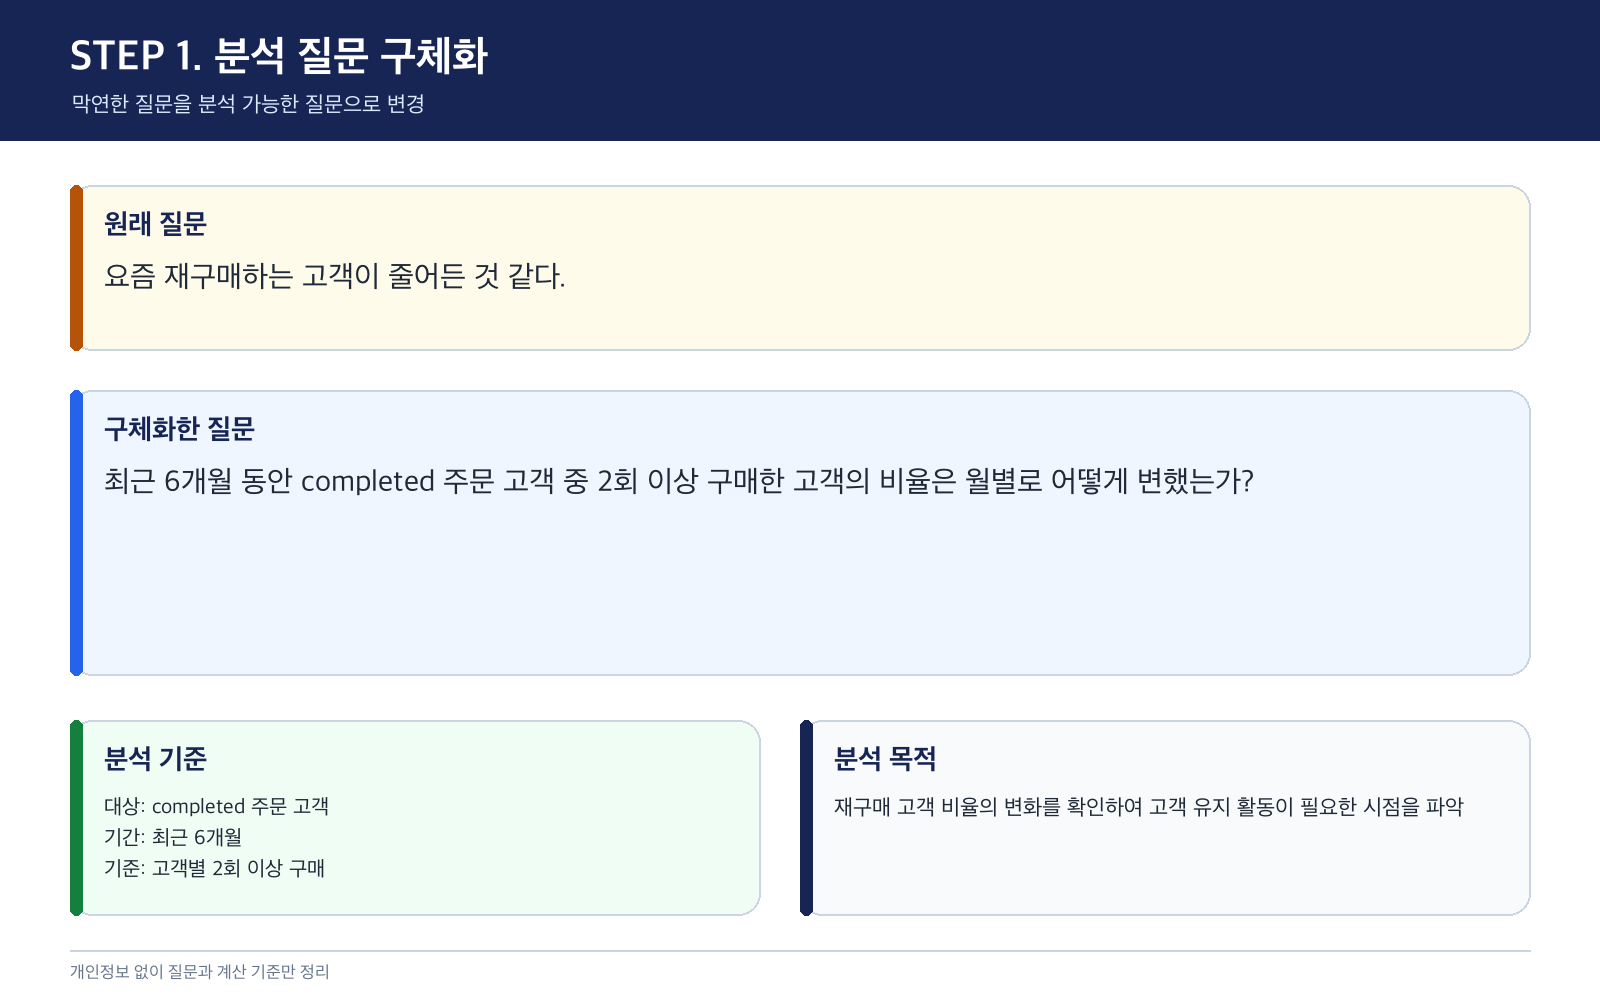
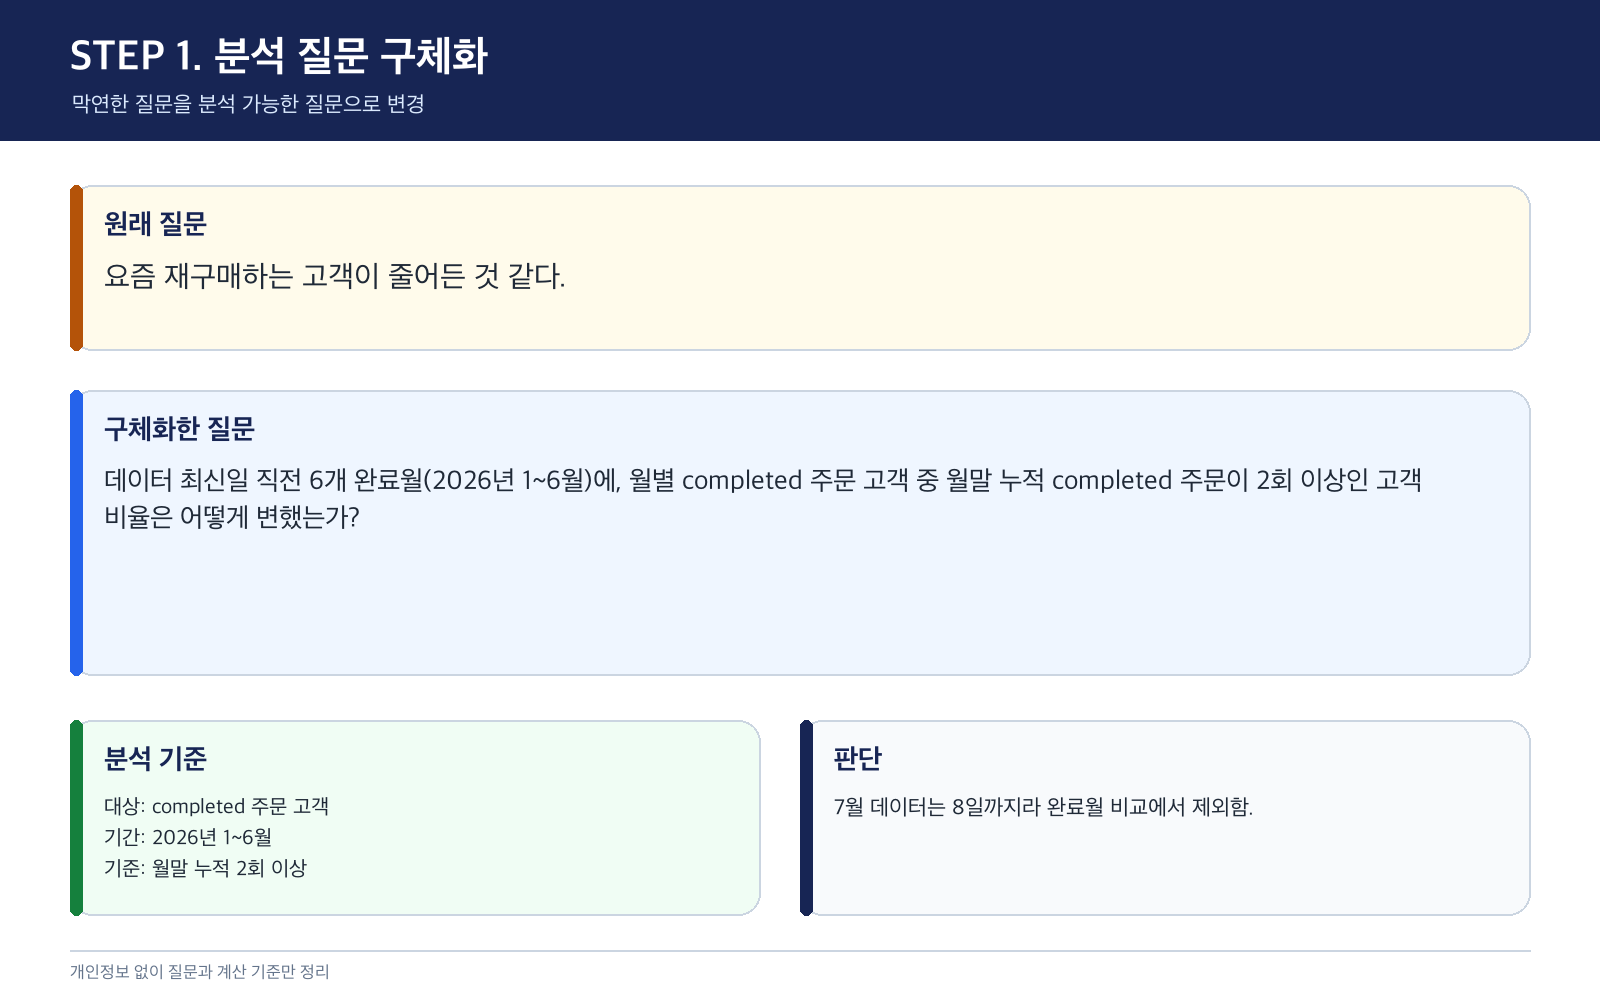
docs: apply submission evidence guidelines

Changed region(s): [[0.0625, 0.465, 0.9062, 0.527], [0.5, 0.744, 0.9062, 0.837], [0.0938, 0.806, 0.1875, 0.899]]

diff --git a/chapter01/chapter01.md b/chapter01/chapter01.md
@@ -9,7 +9,14 @@
 | 저장소명 | llm-data-analysis-study |
 | 작성일 | 2026-09-09 |
 | 사용한 LLM | GPT-5.6 Sol |
+| 제출 방식 | GitHub 최종 파일 URL |
 | 최종 제출 URL | https://github.com/risa0122/llm-data-analysis-study/blob/main/chapter01/chapter01.md |
+
+### LMS 제출용 URL
+
+```text
+https://github.com/risa0122/llm-data-analysis-study/blob/main/chapter01/chapter01.md
+```
 
 ## STEP 1. 막연한 질문을 분석 가능한 질문으로 바꾸기
 
@@ -19,24 +26,28 @@
 
 기준 시점·재구매 정의·대상 범위가 없어 바로 분석하기 어려운 질문임.
 
+### 수행 내용
+
+원래 질문을 대상·기준·비교·목적으로 나눠 정리함.
+
 | 항목 | 구체화한 내용 |
 |---|---|
 | 대상 | `completed` 주문을 한 고객 |
-| 기준 | 고객별 구매 횟수와 월별 비율 |
-| 비교 | 최근 6개월의 월별 재구매 고객 비율 |
+| 기준 | 해당 월까지 누적 `completed` 주문이 2회 이상인 고객의 비율 |
+| 비교 | 데이터 최신일 직전 6개 완료월(2026-01~2026-06)의 월별 변화 |
 | 목적 | 재구매 감소 여부를 확인하고 고객 활동 시책의 필요성을 판단 |
 
-### 분석 가능한 질문
+### 실행 결과
 
-> 최근 6개월 동안 `completed` 주문 고객 중 재구매(구매 2회 이상) 고객 비율은 월별로 어떻게 변했는가?
+> 데이터 최신 주문일(2026-07-08) 직전 6개 완료월인 2026년 1~6월에, 월별 `completed` 주문 고객 중 해당 월까지 누적 `completed` 주문이 2회 이상인 고객 비율은 어떻게 변했는가?
 
 ### 결과 관찰
 
-원래 질문에는 분석 기간, 주문 상태, 재구매 기준이 빠져 있었음. 네 항목으로 나누면서 계산에 필요한 조건이 정리됨.
+원래 질문에는 분석 기간, 주문 상태, 재구매 기준이 빠져 있었음. 데이터의 7월 기록은 8일까지라 완료월 비교에서 제외함.
 
 ### 나의 해석과 판단
 
-구체화 전에는 무엇을 고객 감소로 볼지 판단하기 어려움. `completed` 주문과 구매 2회 이상을 기준으로 정한 뒤 분석 가능한 질문이 됐다고 판단함.
+불완전한 7월을 포함하면 월 중간 수치가 감소처럼 보일 수 있음. 2026년 1~6월과 누적 완료 주문 2회 이상을 기준으로 정한 뒤 분석 가능한 질문이 됐다고 판단함.
 
 ### 업무적 의미
 
@@ -44,7 +55,7 @@
 
 ### 한계 및 추가 확인
 
-최근 6개월의 기준일과 반품·부분 취소 처리 방식은 실제 분석 전에 추가 확인 필요.
+`customer_id`가 실제 고객 한 명을 일관되게 식별하는지와 `refunded` 주문을 재구매 이력에서 제외하는 기준은 실제 업무 적용 전에 확인 필요.
 
 ### 실행 증거
 
@@ -52,7 +63,9 @@
 
 ## STEP 2. 데이터 구조 파악하기
 
-제공된 CSV 4개를 확인하고 파일별 역할과 연결 관계를 정리함.
+### 수행 내용
+
+CSV 4개를 직접 읽어 행 수, 컬럼명, 결측, 기본키 중복, 외래키 연결 여부를 확인함.
 
 ### 필요한 데이터 파일
 
@@ -61,14 +74,16 @@
 - [x] `orders.csv`
 - [ ] `order_items.csv`
 
-현재 질문의 1차 분석에는 `orders.csv`만 필요함. 나머지 파일은 원인이나 고객·상품 특성을 추가로 볼 때 사용 가능함.
+현재 질문의 1차 분석에는 `orders.csv`만 필요함. 나머지 파일은 고객·상품 특성을 추가 분석할 때 사용 가능함.
 
-| 파일 | 주요 컬럼 | 역할 |
+### 실행 결과
+
+| 파일 | 확인한 행 수 | 확인한 컬럼 | 역할 |
 |---|---|---|
-| `customers.csv` | `customer_id`, `name`, `gender`, `age`, `signup_date` | 고객 기본 정보 |
-| `orders.csv` | `order_id`, `customer_id`, `order_date`, `order_status`, `payment_method` | 주문 단위 정보 |
-| `order_items.csv` | `order_id`, `product_id`, `quantity`, `unit_price` | 주문별 상품과 금액 정보 |
-| `products.csv` | `product_id`, `product_name`, `category` | 상품 기본 정보 |
+| `customers.csv` | 150행 | `customer_id`, `name`, `gender`, `age`, `city`, `signup_date` | 고객 기본 정보 |
+| `orders.csv` | 300행 | `order_id`, `customer_id`, `order_date`, `payment_method`, `order_status` | 주문 단위 정보 |
+| `order_items.csv` | 764행 | `order_item_id`, `order_id`, `product_id`, `quantity`, `unit_price` | 주문별 상품과 금액 정보 |
+| `products.csv` | 100행 | `product_id`, `product_name`, `category`, `price` | 상품 기본 정보 |
 
 ### 파일 관계
 
@@ -87,12 +102,12 @@ customers.csv
 |---|---|
 | `order_id` | 주문 건 식별 |
 | `customer_id` | 고객별 구매 횟수 계산 |
-| `order_date` | 최근 6개월과 월 구분 |
+| `order_date` | 2026년 1~6월과 주문 월 구분 |
 | `order_status` | `completed` 주문만 선택 |
 
 ### 결과 관찰
 
-질문에 필요한 고객 ID, 주문일, 주문 상태 컬럼이 `orders.csv`에 존재함. 다른 세 파일은 고객 특성이나 상품별 원인을 추가 분석할 때 연결 가능함.
+질문에 필요한 고객 ID, 주문일, 주문 상태 컬럼이 `orders.csv`에 존재함. 네 파일 모두 결측 행과 기본키 중복이 0건이었고 외래키 연결도 유효했음.
 
 ### 나의 해석과 판단
 
@@ -104,7 +119,7 @@ customers.csv
 
 ### 한계 및 추가 확인
 
-`order_date`의 날짜 형식, 결측치, `order_status`의 실제 값 종류를 계산 전에 확인해야 함.
+파일 구조는 확인했지만 `customer_id`가 탈퇴·재가입 고객까지 같은 사람으로 관리되는지는 데이터만으로 알 수 없음.
 
 ### 실행 증거
 
@@ -119,18 +134,21 @@ customers.csv
 ### 사용한 프롬프트
 
 ```text
-온라인 쇼핑몰 CSV 데이터 4개가 있다.
+온라인 쇼핑몰 데이터 분석을 준비하고 있다.
+데이터는 다음 4개 파일로 구성된다.
 - customers.csv: 고객 정보
+- products.csv: 상품 정보
 - orders.csv: 주문 정보
-- order_items.csv: 주문 상품과 수량·단가
-- products.csv: 상품과 카테고리 정보
+- order_items.csv: 주문 상세 정보
 
-실제 개인정보 값은 제공하지 않고 파일 역할과 컬럼 구조만 사용한다.
-초보자가 pandas로 분석할 수 있고 실무적으로 의미가 있는 질문 5개를 제안해 줘.
-각 질문마다 필요한 파일과 주요 컬럼도 함께 적어 줘.
+목적은 completed 주문 기준 구매 패턴을 이해하는 것이다.
+초보 데이터 분석자가 먼저 확인할 분석 질문 5개를 제안해 줘.
+각 질문마다 필요한 데이터 파일과 확인할 컬럼 후보도 적어 줘.
+원인을 단정하지 말고 현재 데이터로 확인 가능한 질문만 제안해 줘.
+실제 개인정보 값은 사용하지 않는다.
 ```
 
-### LLM 응답 요약
+### 실행 결과: LLM 응답 요약
 
 | 번호 | 제안 질문 | 필요한 파일 |
 |---|---|---|
@@ -142,11 +160,11 @@ customers.csv
 
 ### 결과 관찰
 
-LLM은 한 파일로 가능한 질문과 여러 파일을 연결해야 하는 질문을 함께 제안함. 재구매 비율 질문은 처음 정한 업무 문제와 가장 직접적으로 연결됨.
+LLM은 질문 5개를 제안함. 이 중 2개는 `orders.csv` 한 파일로 확인 가능했고, 3개는 2~3개 파일의 연결이 필요했음.
 
 ### 나의 해석과 판단
 
-다섯 질문 중 1번을 선택함. 현재 학습 범위에서 계산 가능하고 업무 목적도 분명하기 때문임.
+재구매 비율 질문이 처음 정한 업무 문제와 직접 연결되고 한 파일로 확인 가능해 1번을 선택함.
 
 ### 업무적 의미
 
@@ -162,23 +180,32 @@ LLM이 제안한 질문은 분석 기준이 완전하지 않음. 기간, 주문 
 
 ## STEP 4. LLM 제안 검증하기
 
+### 수행 내용
+
+선택한 재구매 질문을 `orders.csv`의 실제 컬럼, 결측, 상태값, 날짜 범위와 비교함.
+
+### 실행 결과
+
 | 검증 항목 | 확인 내용 |
 |---|---|
 | 선택한 LLM 제안 | 월별 재구매 고객 비율은 어떻게 변하는가? |
 | 필요한 파일 | `orders.csv` |
 | 필요한 컬럼 | `order_id`, `customer_id`, `order_date`, `order_status` |
-| 계산 범위 | 최근 6개월의 `completed` 주문 |
-| 실제 데이터 확인 필요 여부 | 컬럼 존재는 확인함. 날짜형·결측·상태값은 계산 전에 확인 필요. |
+| 실제 파일 확인 | 300행, 필요한 4개 컬럼 결측 0건 |
+| 상태값 확인 | `completed` 184건, `cancelled` 64건, `refunded` 52건 |
+| 날짜 범위 확인 | 2025-07-09~2026-07-08 |
+| 계산 범위 | 불완전한 2026년 7월을 제외한 2026년 1~6월의 `completed` 주문 |
+| 재구매 기준 | 해당 월까지 누적 `completed` 주문 2회 이상 |
 | 원인 단정 여부 | 비율 변화만 확인하며 감소 원인은 단정하지 않음. |
 | 최종 판단 | 수정 후 사용 |
 
 ### 내가 수정한 내용
 
-LLM 제안에 최근 6개월, `completed` 주문, 구매 2회 이상이라는 조건을 추가함.
+LLM 제안에 2026년 1~6월, `completed` 주문, 월별 누적 구매 2회 이상이라는 조건을 추가함.
 
 ### 결과 관찰
 
-필요한 컬럼은 실제 데이터에 존재했지만 계산 기준은 LLM 응답만으로 충분하지 않았음.
+필요한 컬럼은 실제 데이터에 존재했고 결측도 없었음. 다만 LLM 응답에는 기간과 재구매 계산 기준이 없었음.
 
 ### 나의 해석과 판단
 
@@ -190,7 +217,7 @@ LLM 제안을 정답으로 사용하지 않고 데이터 구조와 업무 목적
 
 ### 한계 및 추가 확인
 
-재구매 고객을 월별 누적 2회 이상으로 볼지, 해당 월에 2회 이상 구매한 고객으로 볼지는 실제 업무 담당자와 합의 필요.
+이번 실습에서는 누적 2회 이상으로 정했지만 실제 업무에서도 같은 정의를 사용하는지는 담당자 확인 필요.
 
 ### 실행 증거
 
@@ -198,19 +225,25 @@ LLM 제안을 정답으로 사용하지 않고 데이터 구조와 업무 목적
 
 ## STEP 5. 프롬프트 로그 작성하기
 
+### 수행 내용
+
+사용한 Prompt, LLM 답변, 실제 반영 내용, 사람의 수정과 남은 확인 사항을 구분해 기록함.
+
+### 실행 결과
+
 | 항목 | 기록 |
 |---|---|
 | 목적 | 데이터 구조로 분석 가능한 질문 후보 찾기 |
-| 입력 정보 | 파일명, 주요 컬럼, 파일 간 관계, 개인정보 제외 조건 |
+| 입력 정보 | 파일명과 역할, 분석 목적, 개인정보 제외 조건 |
 | LLM 응답 | 재구매율, 카테고리 매출, 결제수단별 취소율 등 질문 5개 |
 | 실제 반영 | 재구매 고객 비율 질문을 선택 |
 | 사람이 검증한 내용 | 필요한 컬럼 존재 여부, 업무 목적과의 연결, 계산 기준의 명확성 |
-| 사람이 수정한 내용 | 최근 6개월, `completed`, 구매 2회 이상 조건 추가 |
-| 남은 확인 사항 | 재구매 집계 방식과 취소·반품 처리 기준 |
+| 사람이 수정한 내용 | 2026년 1~6월, `completed`, 월별 누적 구매 2회 이상 조건 추가 |
+| 남은 확인 사항 | 실제 업무의 재구매 정의와 환불 주문 처리 기준 |
 
 ### 결과 관찰
 
-프롬프트와 수정 내용을 함께 적으니 LLM 응답 중 무엇을 사용했고 무엇을 사람이 바꿨는지 구분됨.
+LLM은 질문 방향을 제안했고, 사람은 실제 데이터의 최신일과 상태값을 확인해 기간과 계산 기준을 수정했음.
 
 ### 나의 해석과 판단
 
@@ -261,19 +294,21 @@ DATA_DIR = Path("../data/raw")
 sns.set_theme(style="whitegrid")
 
 customers = pd.read_csv(DATA_DIR / "customers.csv")
-customers.head()
+customers.shape
+customers.columns.tolist()
 ```
 
 ### 실행 결과
 
 - `Path`와 `pandas` import가 정상 실행됨.
 - `DATA_DIR`가 CSV 폴더를 가리키는지 확인함.
-- `customers.csv`를 불러오고 상위 5행을 확인함.
-- 제출 화면에는 개인정보가 보이지 않도록 실행 상태만 정리함.
+- `customers.csv`를 불러온 결과 `(150, 6)`을 확인함.
+- 컬럼은 `customer_id`, `name`, `gender`, `age`, `city`, `signup_date`로 확인됨.
+- 개인정보가 포함된 원본 행은 Evidence에 표시하지 않음.
 
 ### 결과 관찰
 
-기본 import와 데이터 불러오기 단계에서 오류가 발생하지 않았음.
+기본 import와 데이터 불러오기 단계에서 오류가 없었고 150행·6열이 확인됨.
 
 ### 나의 해석과 판단
 
@@ -291,11 +326,11 @@ customers.head()
 
 ### 이번 장에서 가장 중요하다고 생각한 내용
 
-원래 질문은 재구매 감소의 기준이 없어 바로 분석할 수 없었음. 데이터 구조를 확인한 뒤 최근 6개월, `completed` 주문, 구매 2회 이상이라는 조건을 추가해 분석 가능한 질문으로 바꿈. LLM은 질문 후보를 넓히는 데 도움이 됐지만 기간과 계산 기준은 사람이 검증하고 수정해야 했음. 이번 장에서는 질문 정의와 데이터 준비까지 완료했으며 실제 재구매율 계산은 다음 분석 단계로 남음.
+원래 질문은 재구매 감소의 기준이 없어 바로 분석할 수 없었음. 데이터 구조를 확인한 뒤 2026년 1~6월, `completed` 주문, 월별 누적 구매 2회 이상이라는 조건을 추가함. LLM은 질문 후보를 넓히는 데 도움이 됐지만 기간과 계산 기준은 실제 데이터를 보고 직접 수정해야 했음. 이번 장에서는 질문 정의와 검증까지 완료했으며 재구매율 계산은 다음 분석 단계로 남음.
 
 ### LLM을 데이터 분석에 사용할 때 가장 조심해야 할 점
 
-주의할 점은 재구매 집계 기준에 따라 결과가 달라질 수 있다는 것임. 실제 계산 전에 누적 구매 기준인지 월내 구매 기준인지 먼저 확정해야 함.
+주의할 점은 LLM이 자연스러운 문장으로 답해도 실제 컬럼과 날짜 범위를 확인한 결과는 아니라는 것임. 제안을 사용하기 전에 직접 확인한 사실과 LLM의 제안을 구분해야 함.
 
 ### 사람과 LLM의 역할 차이
 
@@ -309,14 +344,17 @@ customers.head()
 
 ### 다음 Chapter에서 확인하고 싶은 것
 
-정리한 기준으로 실제 월별 재구매 고객 비율을 계산하고, 누적 기준과 월내 기준의 결과 차이를 확인하고 싶음.
+정리한 기준으로 실제 월별 재구매 고객 비율을 계산하고 그래프로 확인하고 싶음.
 
 ## STEP 9. 제출 전 체크리스트
 
+- [x] 실습을 직접 수행함.
+- [x] 요구된 `chapter01.md` 파일을 작성함.
 - [x] 막연한 질문을 분석 가능한 질문으로 바꿈.
 - [x] 질문에 필요한 데이터 파일과 컬럼 후보를 정리함.
 - [x] LLM Prompt와 답변 요약을 작성함.
 - [x] LLM 제안을 실제 데이터 관점에서 검증함.
+- [x] 무엇을 수행했고 어떤 결과가 나왔는지 작성함.
 - [x] 각 핵심 STEP의 결과 관찰을 작성함.
 - [x] 각 핵심 STEP의 나의 해석과 판단을 작성함.
 - [x] 업무·분석적 의미를 작성함.
@@ -325,9 +363,11 @@ customers.head()
 - [x] 이미지가 Markdown에서 정상 표시됨.
 - [x] 개인정보가 없음.
 - [x] API Key·Secret·Token이 없음.
+- [x] 오류가 발생한 Cell을 제출물에 남기지 않음.
 - [x] 개인 GitHub 저장소에 업로드함.
 - [x] GitHub에서 Markdown과 이미지가 정상 표시됨.
 - [x] 최종 파일 URL이 정상적으로 열림.
+- [ ] LMS에 최종 파일 URL을 제출함.
 
 ## STEP 10. 교수자 확인용 요약
 
@@ -338,8 +378,8 @@ customers.head()
 
 ### 내가 가장 중요하게 내린 판단 1개
 
-LLM 제안은 그대로 사용하지 않고 기간·주문 상태·재구매 기준을 추가한 뒤 사용함.
+LLM 제안은 그대로 사용하지 않고 실제 데이터의 날짜 범위와 상태값을 확인한 뒤 기간·주문 상태·재구매 기준을 추가해 사용함.
 
 ### 아직 확인이 필요한 내용 1개
 
-실제 분석 전에 재구매 집계 방식과 반품·부분 취소 처리 기준을 확인해야 함.
+실제 업무에서도 누적 완료 주문 2회 이상을 재구매로 정의하는지 확인해야 함.
